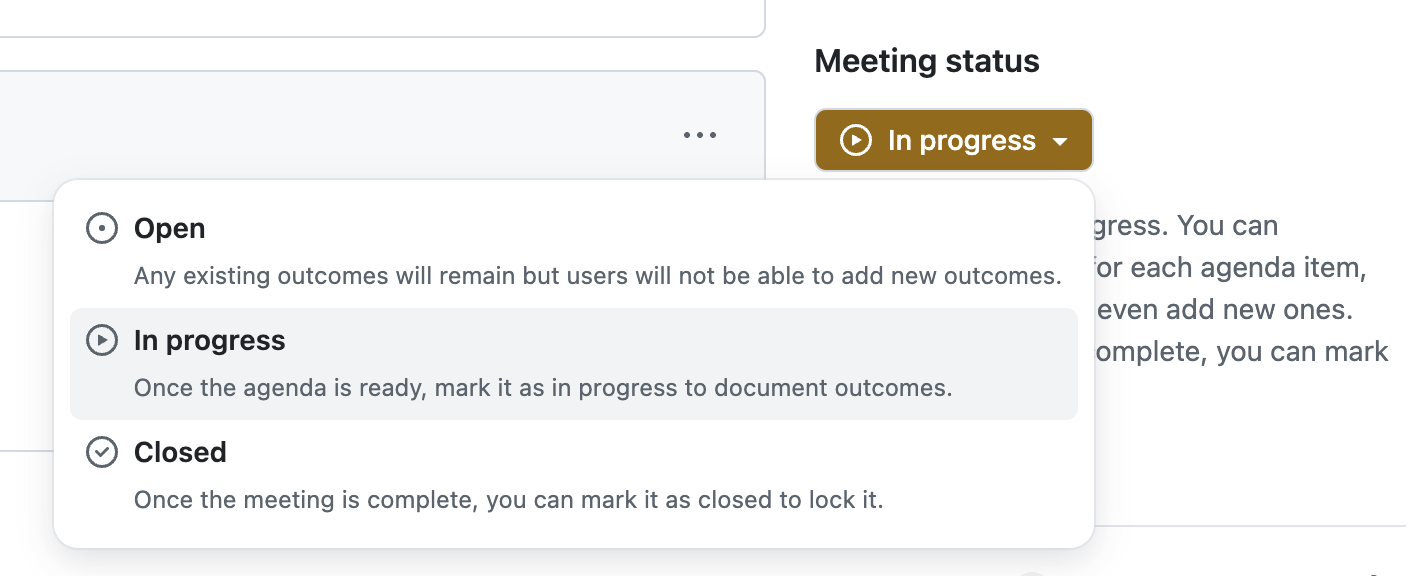
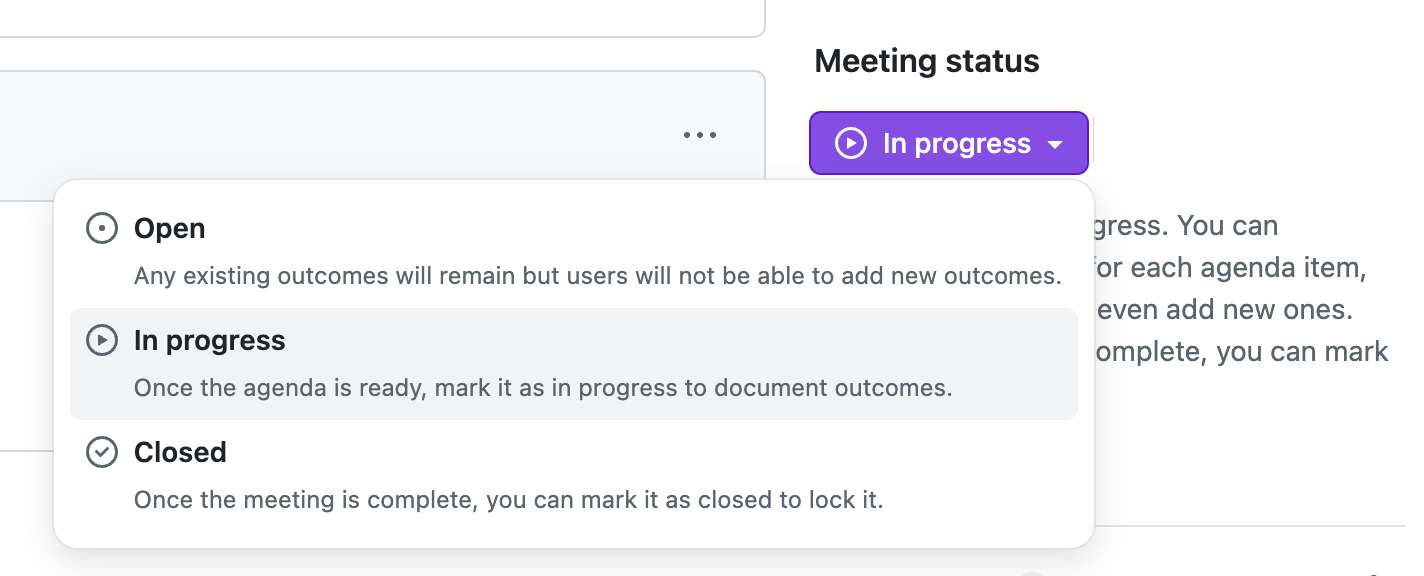
Update Meetings screenshots
New color

Changed region(s): [[0.5562, 0.1875, 0.7725, 0.3125]]

diff --git a/docs/release-notes/15-4-0/README.md b/docs/release-notes/15-4-0/README.md
@@ -14,10 +14,6 @@ We released [OpenProject 15.4.0](https://community.openproject.org/versions/2165
 
 ## Important feature changes
 
-Take a look at the release video showing the most important features introduced in 15.4.0:
-
-VIDEO
-
 ### Enable automatic scheduling mode - to start as soon as possible
 
 Starting with OpenProject 15.4, users will be able to choose whether they want to manually schedule their work packages or enable automatic scheduling. This highly requested feature of automatic scheduling, based on predecessor and child relations, simplifies managing complex project setups.
@@ -62,7 +58,7 @@ The updated Meetings module now allows you to set a meeting status:
 
 Once the status is "in progress", you can add outcomes to every agenda item. If it is a recurring meeting, you can also move the agenda item to the next meeting:
 
-![Screenshot: OpenProject's Meetings module, options for an agenda item if the meeting status is 'in progress'](openproject-15-4-meetings-outcome-highlighted.png)
+![Screenshot: OpenProject's Meetings module, options for an agenda item if the meeting status is 'in progress'](openproject-15-4-meetings-outcome-highlighted-new.png)
 
 > [!NOTE]
 > In the following months, we will continue working on the Meetings module. For example, when a recurring meeting is closed, it shall be possible to move all agenda items without outcomes to the next meeting ([see this feature](https://community.openproject.org/wp/61911)). Also, a meeting agenda items backlog for recurring meetings is planned ([see this feature](https://community.openproject.org/wp/54751)).
